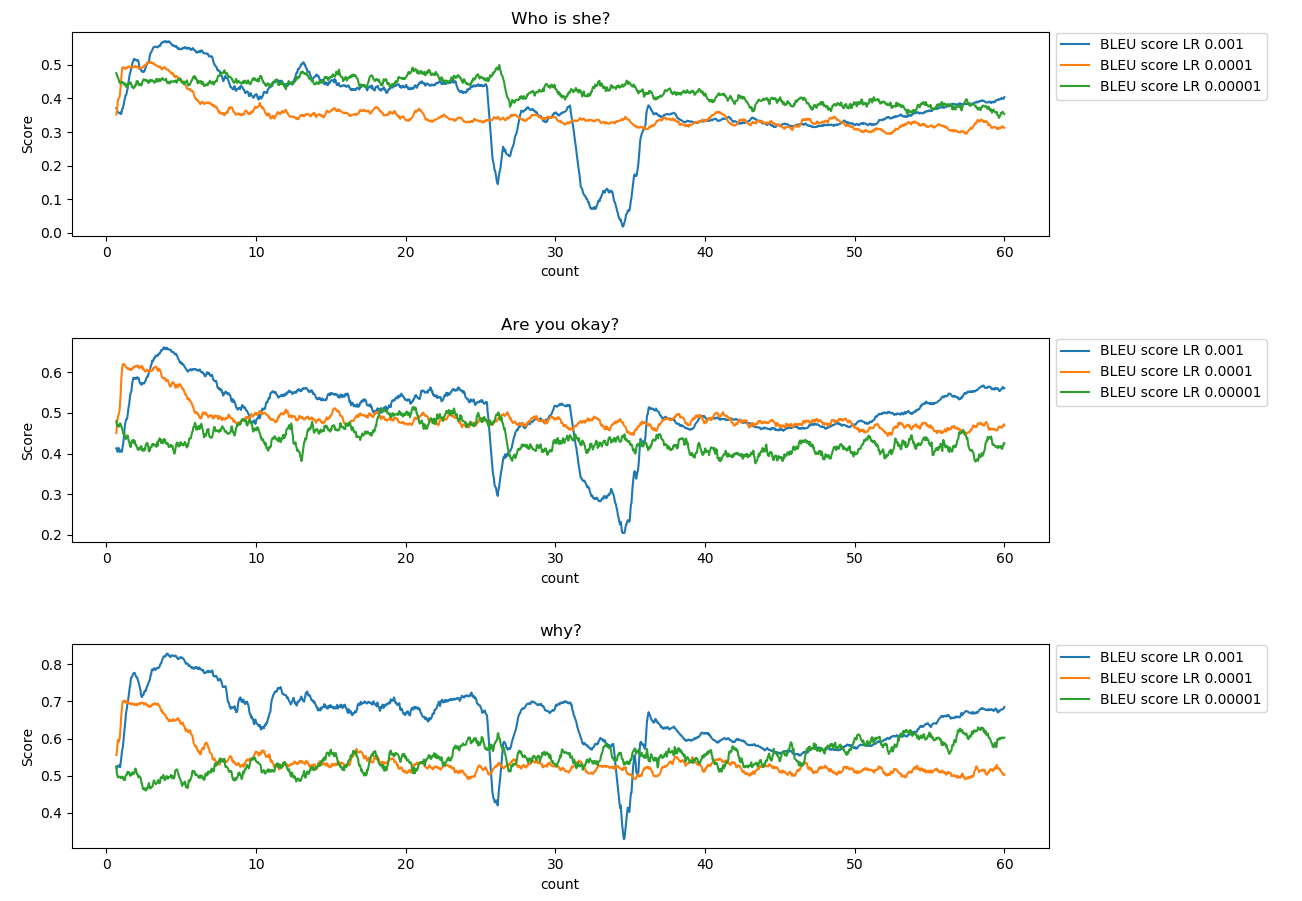
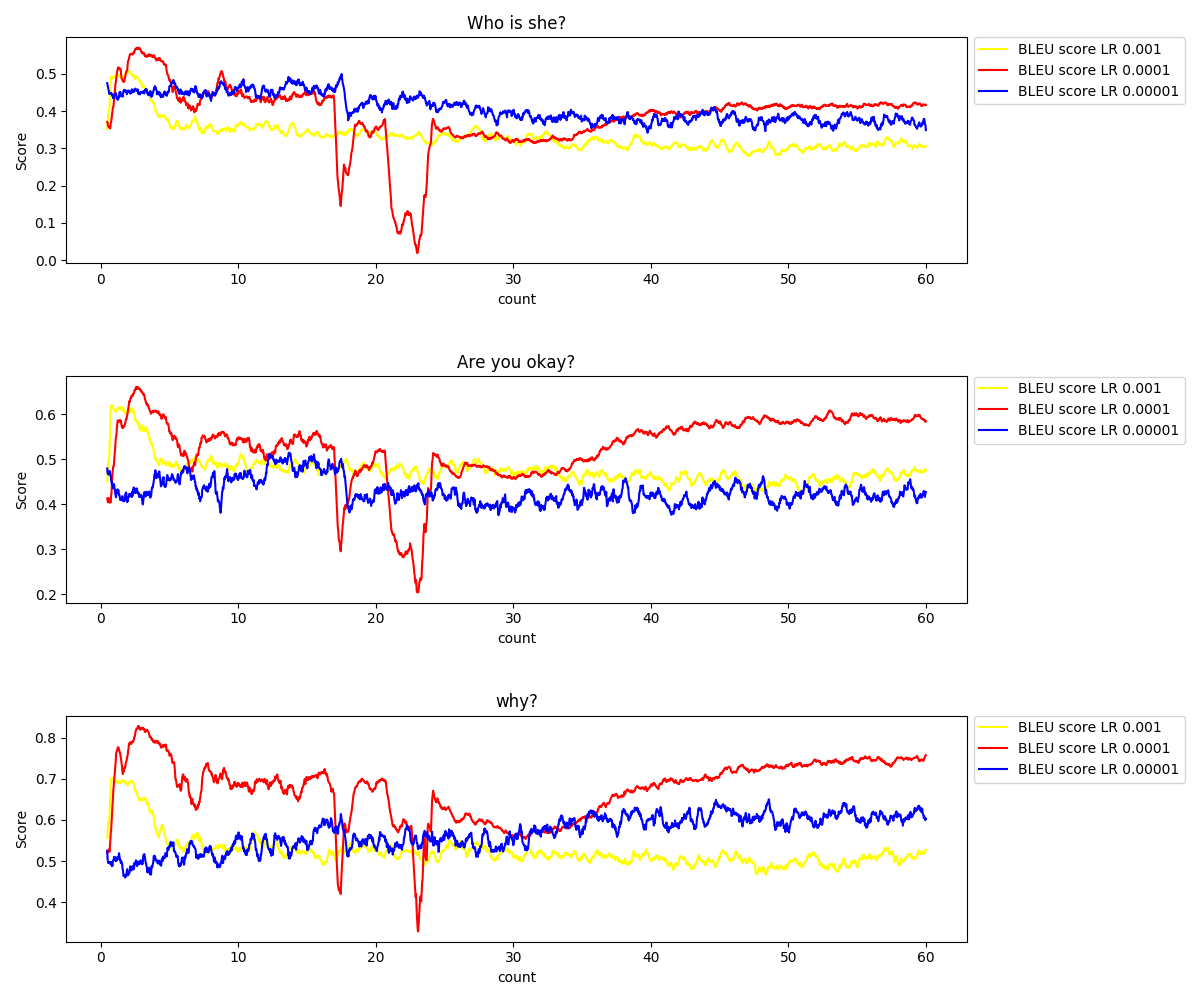
LR comparison graph

diff --git a/Plot_graphs_with_pickle_loading.py b/Plot_graphs_with_pickle_loading.py
@@ -52,7 +52,7 @@ fig, ax = plt.subplots(3,1,figsize = (12,10))
 
 ax[0].plot(x,df_q12[0].rolling(window).mean(), color = 'yellow', label = 'BLEU score LR 0.001')
 ax[0].plot(x,df_q11[0].rolling(window).mean(), color = 'red',label = 'BLEU score LR 0.0001')
-ax[0].plot(x,df_q13[0].rolling(window).mean(), color = 'blue', label = 'BLEU score LR 0.0001')
+ax[0].plot(x,df_q13[0].rolling(window).mean(), color = 'blue', label = 'BLEU score LR 0.00001')
 #ax[0].plot(x,df_q14[0].rolling(window).mean(), color = 'cyan', label = 'BLEU score WD 0.00001')
 #ax[0].plot(x,df_q1[1].rolling(window).mean(), label = 'Precision')
 #ax[0].plot(x,df_q1[2].rolling(window).mean(), label = 'Recal')
@@ -64,7 +64,7 @@ ax[0].legend(bbox_to_anchor=(1, 1.03))
 
 ax[1].plot(x,df_q22[0].rolling(window).mean(), color = 'yellow', label = 'BLEU score LR 0.001')
 ax[1].plot(x,df_q21[0].rolling(window).mean(), color = 'red', label = 'BLEU score LR 0.0001')
-ax[1].plot(x,df_q23[0].rolling(window).mean(), color = 'blue', label = 'BLEU score LR 0.0001')
+ax[1].plot(x,df_q23[0].rolling(window).mean(), color = 'blue', label = 'BLEU score LR 0.00001')
 #ax[1].plot(x,df_q24[0].rolling(window).mean(), color = 'cyan', label = 'BLEU score WD 0.00001')
 #ax[1].plot(x,df_q2[1].rolling(window).mean(), label = 'Precision')
 #ax[1].plot(x,df_q2[2].rolling(window).mean(), label = 'Recal')
@@ -75,8 +75,8 @@ ax[1].set_ylabel("Score")
 ax[1].legend(bbox_to_anchor=(1, 1.03))
 
 ax[2].plot(x,df_q32[0].rolling(window).mean(), color = 'yellow', label = 'BLEU score LR 0.001')
-ax[2].plot(x,df_q31[0].rolling(window).mean(), color = 'red', label = 'BLEU score LR 0.001')
-ax[2].plot(x,df_q33[0].rolling(window).mean(), color = 'blue', label = 'BLEU score LR 0.0001')
+ax[2].plot(x,df_q31[0].rolling(window).mean(), color = 'red', label = 'BLEU score LR 0.0001')
+ax[2].plot(x,df_q33[0].rolling(window).mean(), color = 'blue', label = 'BLEU score LR 0.00001')
 #ax[2].plot(x,df_q34[0].rolling(window).mean(), color = 'cyan', label = 'BLEU score WD 0.00001')
 #ax[2].plot(x,df_q2[1].rolling(window).mean(), label = 'Precision')
 #ax[2].plot(x,df_q2[2].rolling(window).mean(), label = 'Recal')
